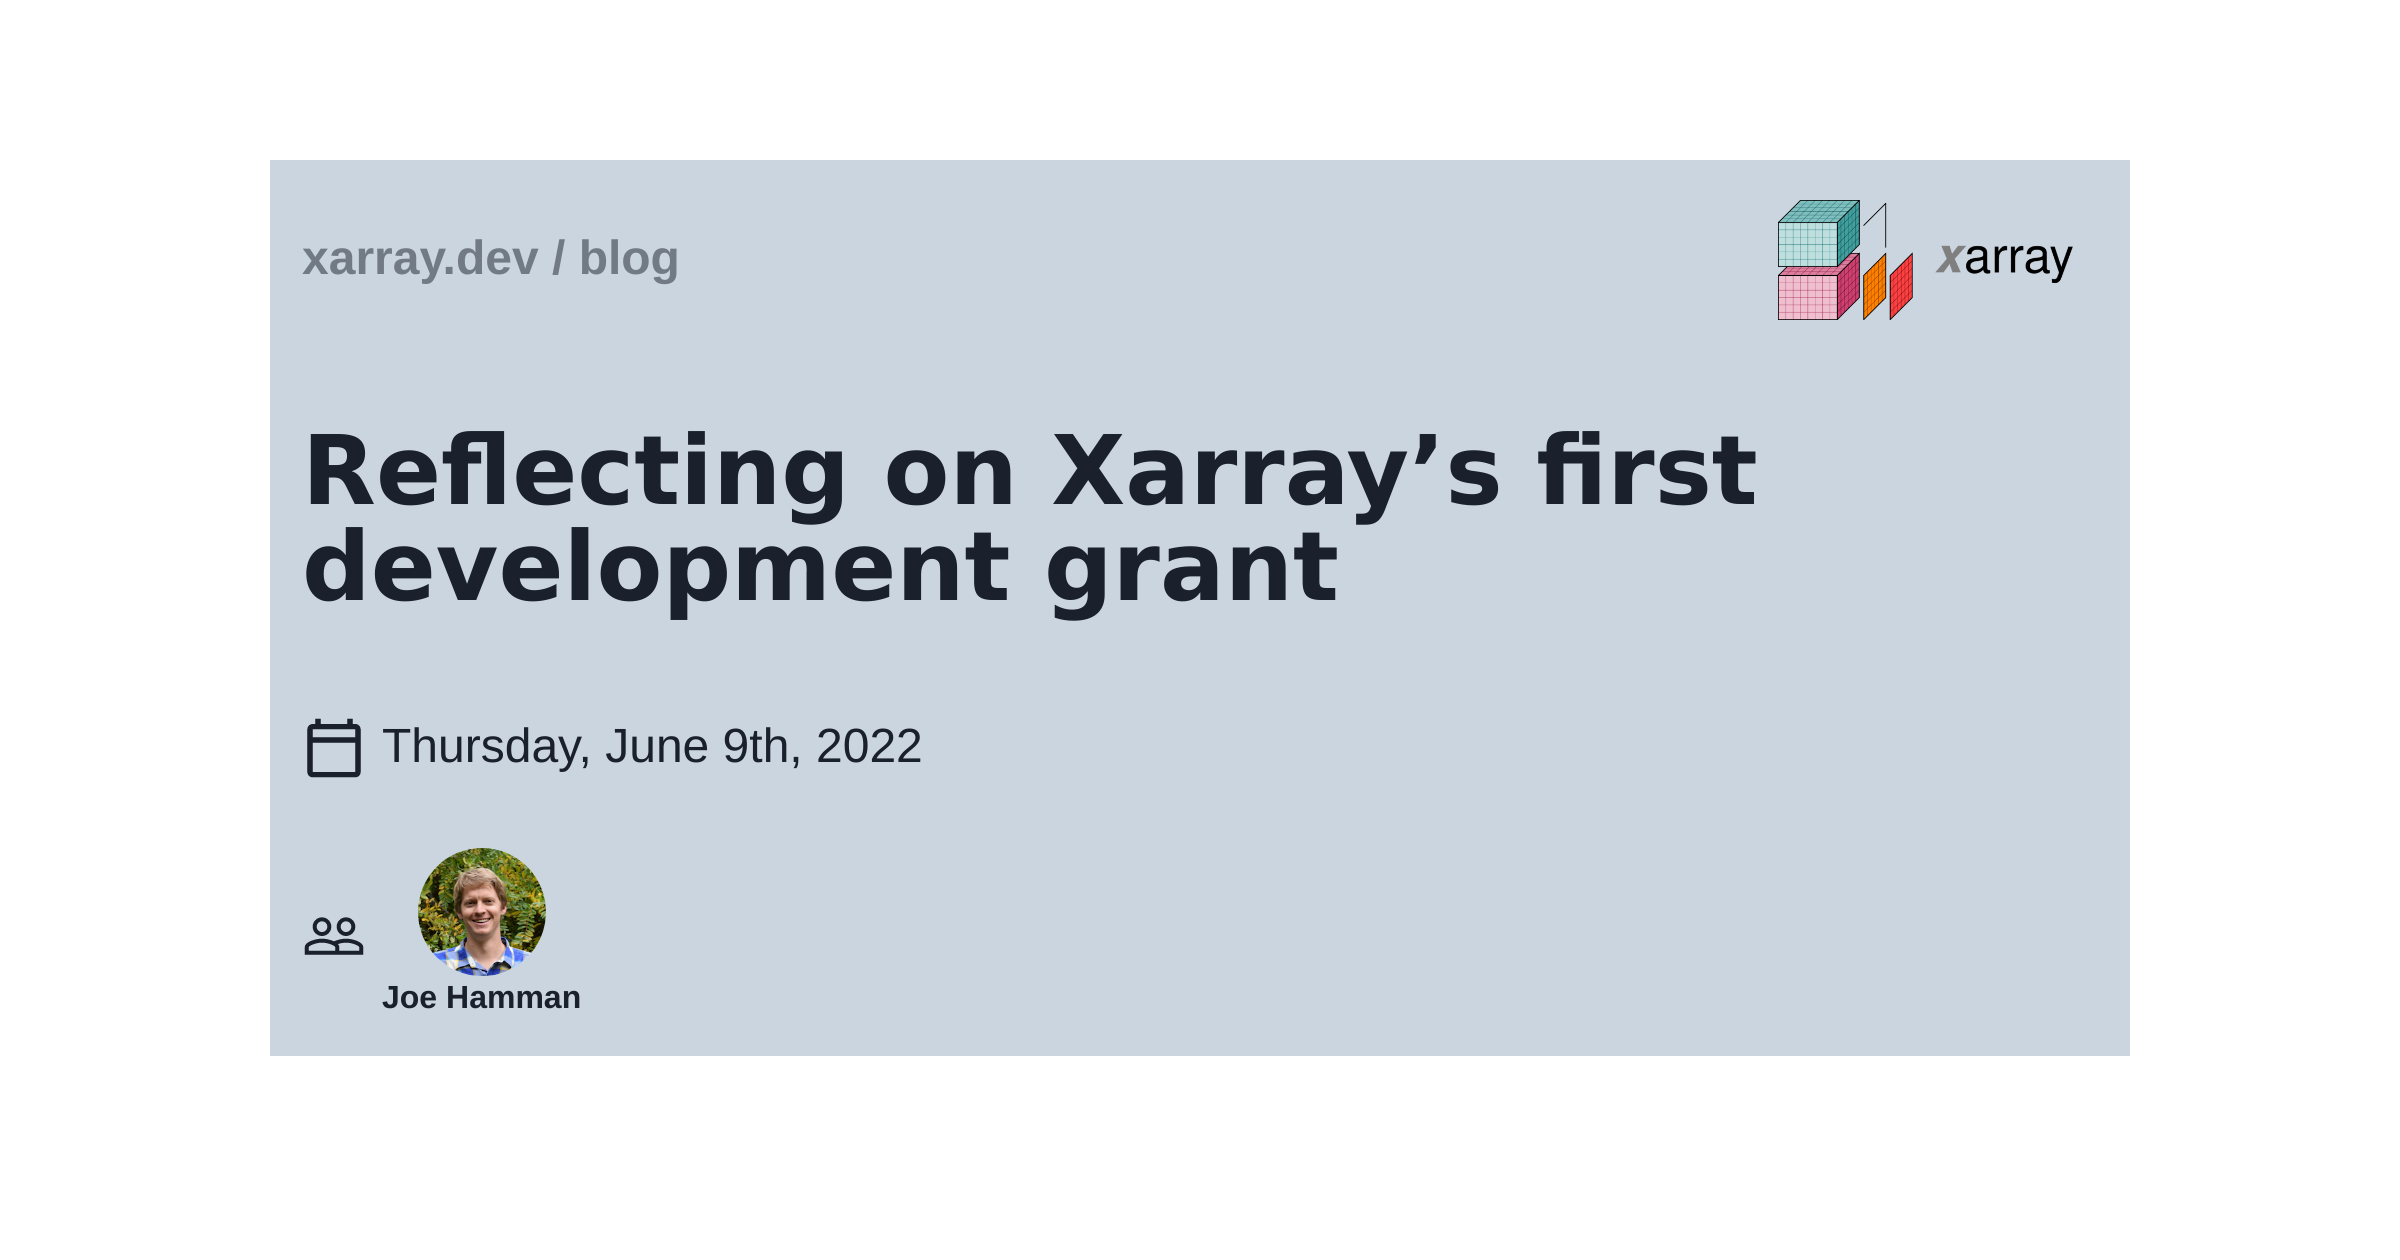
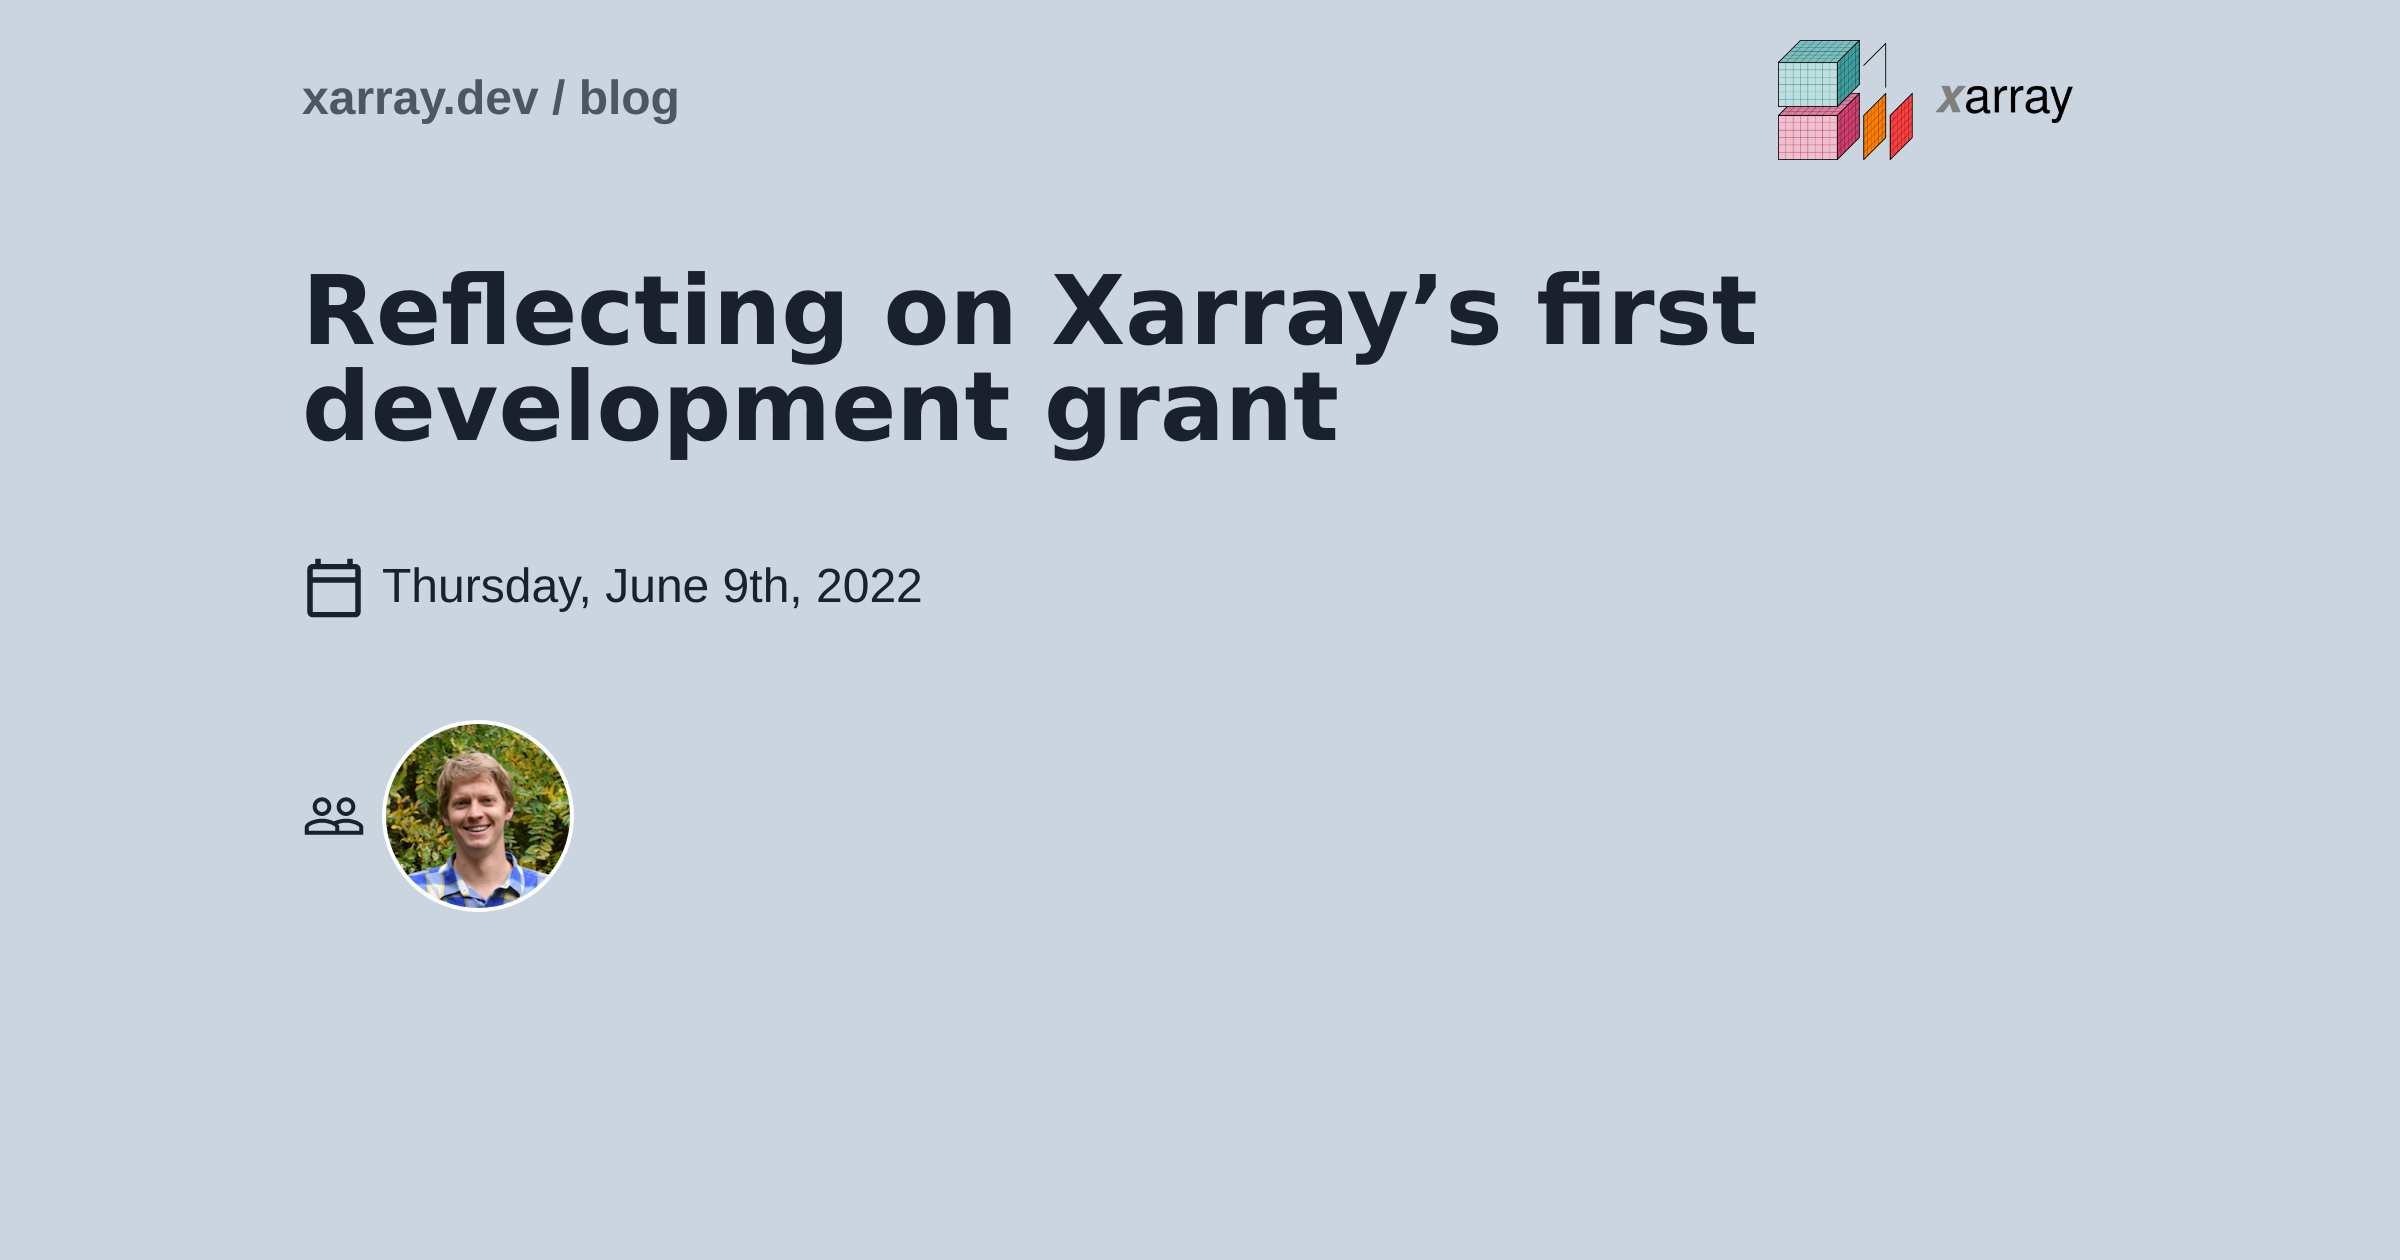
update layout

diff --git a/src/pages/cards/[id].js b/src/pages/cards/[id].js
@@ -5,14 +5,14 @@ import { formatDate } from '@/lib/date-formatting'
 import { getAllPostsIds, getPostData } from '@/lib/posts'
 import {
   Avatar,
+  AvatarGroup,
+  Box,
   Container,
   Flex,
   Heading,
   Icon,
   Stack,
   Text,
-  Wrap,
-  WrapItem,
 } from '@chakra-ui/react'
 import fs from 'fs'
 import matter from 'gray-matter'
@@ -23,67 +23,57 @@ const Card = ({ frontmatter, id }) => {
   const date = new Date(frontmatter.date)
 
   return (
-    <Container
-      my={20}
-      id='post'
-      sx={{ bg: boxBackground, color: 'invert' }}
-      maxW={{ base: '900px', md: '930px' }}
-    >
-      <Flex direction='column' fontSize={'2xl'}>
-        <Stack direction={'row'} spacing={8} justify='space-between'>
-          <Stack>
-            <Text my={8} fontWeight={'bold'} opacity={0.5}>
-              xarray.dev / blog
-            </Text>
-          </Stack>
-          <Flex
-            direction={'row'}
-            alignItems={'center'}
-            justify={'right'}
-            align={'right'}
-          >
-            <Image
+    <Box sx={{ bg: boxBackground, color: 'invert' }} h={'100vh'} w={'100vw'}>
+      <Container id='post' maxW={{ base: '900px', md: '930px' }}>
+        <Flex direction='column' fontSize={'2xl'}>
+          <Stack direction={'row'} spacing={8} justify='space-between'>
+            <Stack>
+              <Text my={8} fontWeight={'bold'} opacity={0.7}>
+                xarray.dev / blog
+              </Text>
+            </Stack>
+            <Flex
+              direction={'row'}
+              alignItems={'center'}
               justify={'right'}
               align={'right'}
-              w={40}
-              src={'/dataset-diagram-logo.png'}
-              alt={'xarray logo'}
-            />
-          </Flex>
-        </Stack>
-        <Heading as={'h1'} size={'2xl'} my={8}>
-          {frontmatter.title}
-        </Heading>
+            >
+              <Image
+                justify={'right'}
+                align={'right'}
+                w={40}
+                src={'/dataset-diagram-logo.png'}
+                alt={'xarray logo'}
+              />
+            </Flex>
+          </Stack>
+          <Heading as={'h1'} size={'2xl'} my={8}>
+            {frontmatter.title}
+          </Heading>
 
-        <Stack direction={'row'} my={4} align={'center'}>
-          <Icon as={MdOutlineCalendarToday} w='8' h='8' />
-          <Text>{formatDate(date)}</Text>
-        </Stack>
+          <Stack direction={'row'} my={4} align={'center'}>
+            <Icon as={MdOutlineCalendarToday} w='8' h='8' />
+            <Text>{formatDate(date)}</Text>
+          </Stack>
 
-        <Stack direction={'row'} my={4} align={'center'}>
-          <Icon as={MdPeopleOutline} w='8' h='8' />
+          <Stack direction={'row'} my={8} align={'center'}>
+            <Icon as={MdPeopleOutline} w='8' h='8' />
 
-          <Wrap spacing={3} my={8}>
-            {frontmatter.authors.map((author) => {
-              return (
-                <WrapItem key={author.name}>
-                  <Flex align={'center'} direction={'column'}>
-                    <Avatar
-                      src={`https://github.com/${author.github}.png`}
-                      name={author.name}
-                      size={'lg'}
-                    />
-                    <Text fontWeight={'bold'} fontSize={'md'}>
-                      {author.name}
-                    </Text>
-                  </Flex>
-                </WrapItem>
-              )
-            })}
-          </Wrap>
-        </Stack>
-      </Flex>
-    </Container>
+            <AvatarGroup size={'xl'}>
+              {frontmatter.authors.map((author) => {
+                return (
+                  <Avatar
+                    key={author.name}
+                    src={`https://github.com/${author.github}.png`}
+                    name={author.name}
+                  />
+                )
+              })}
+            </AvatarGroup>
+          </Stack>
+        </Flex>
+      </Container>
+    </Box>
   )
 }
 
